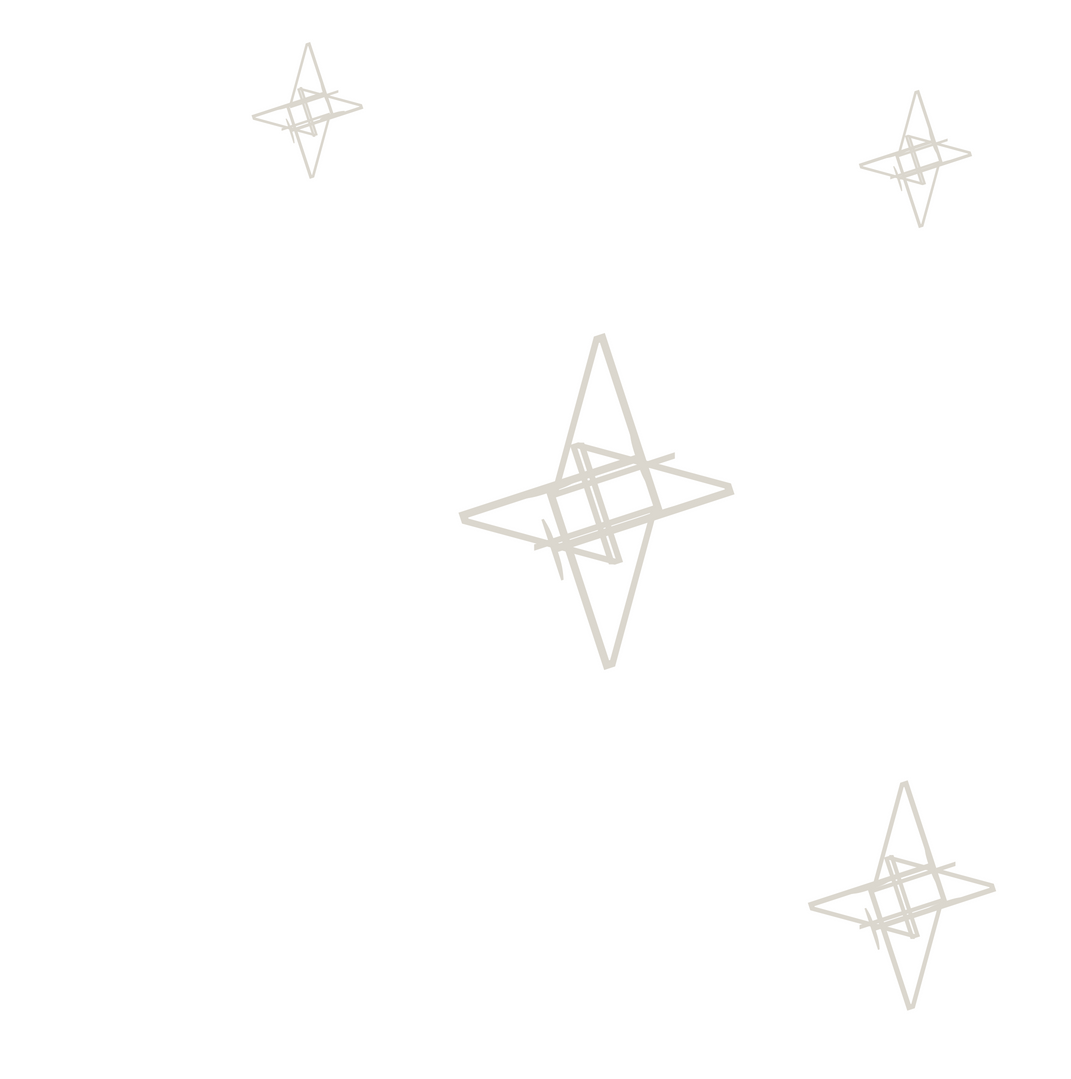
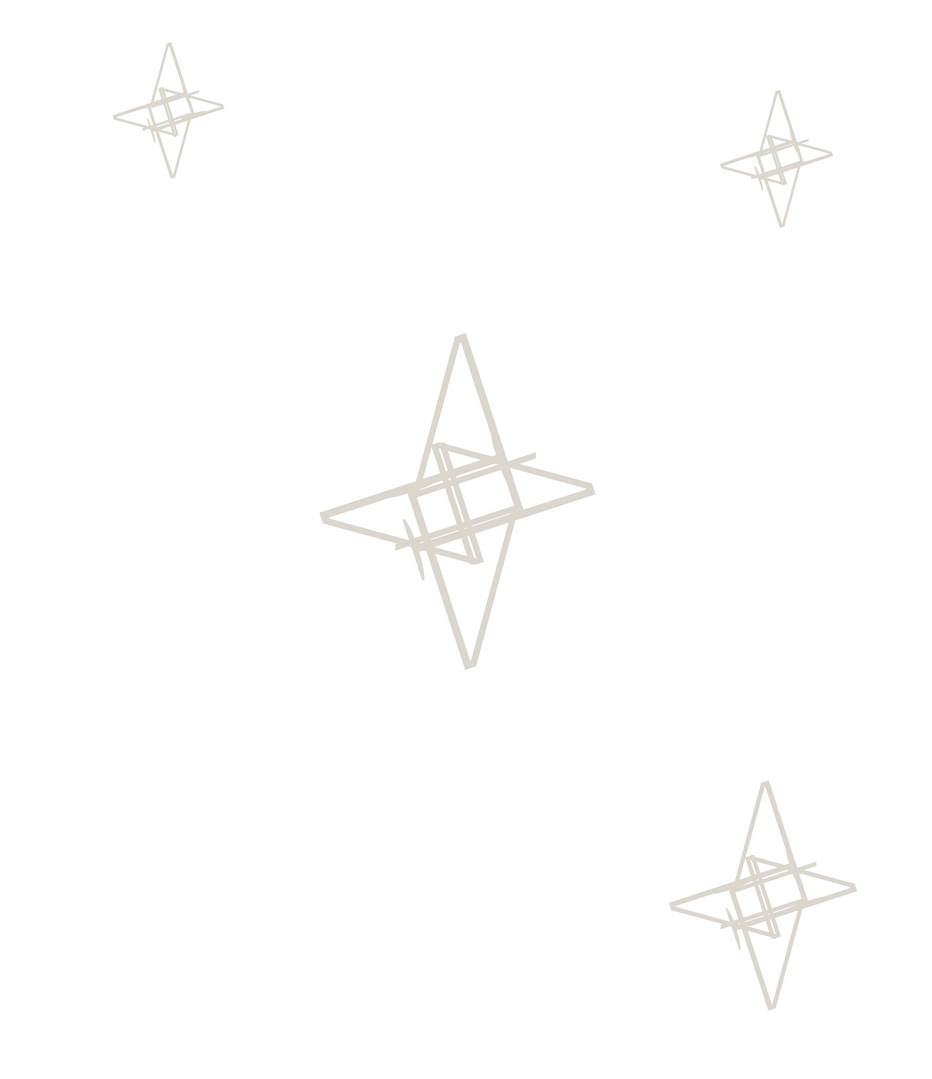
layout for home page proto

diff --git a/index.html b/index.html
@@ -19,9 +19,7 @@
     <script src="https://ajax.googleapis.com/ajax/libs/jquery/3.3.1/jquery.min.js"></script>
     <script src="https://maxcdn.bootstrapcdn.com/bootstrap/3.3.7/js/bootstrap.min.js"></script>
     <style>
-        * {
-          box-sizing: border-box;
-        }
+
         .sidenav {
             height: 100%;
             width: 200px;
@@ -32,14 +30,14 @@
             background-color: #fff;
             overflow-x: hidden;
             padding-top: 20px;
-            border-right: 2px solid #f2eded;
+            border-right: 2px solid #cdcbc1;
         }
 
             .sidenav a {
                 padding: 6px 6px 6px 32px;
                 text-decoration: none;
                 font-size: 25px;
-                color: #dbd8ce;
+                color: #cdcbc1;
                 display: block;
             }
 
@@ -49,35 +47,43 @@
 
         button {
             border-radius: 5px;
-            padding: 10px;
+            padding: 16px;
             background-color: white;
-            border: 2px solid #f2eded;
-            color: #dbd8ce;
+            border: 2px solid #cdcbc1;
+            color: #cdcbc1;
             font-family: 'Cutive Mono';
         }
 
         button:hover{
-            filter: brightness(96%);
+            color: white;
+            background-color: #cdcbc1;
         }
 
         .main {
             margin-left: 200px; /* Same as the width of the sidenav */
-            padding: 60px;
-
-
+            padding: 0px;
+            height: 100%;
         }
+
         body {
             font-family: 'Cutive Mono';
             font-size: 22px;
-            color: #dbd8ce;
+            color: #cdcbc1;
             display: block;
-            background-image: url(imgs/backgroundpoem.png);
+
             /* Full height */
             height: 100%;
-            /* Center and scale the image nicely */
-            background-position: center;
-            background-repeat: no-repeat;
-            background-size: cover;
+        }
+        .grassflowers {
+          position:absolute;
+          bottom: 0px;
+          background-image: url("imgs/backgroundpoemflowers.png");
+          height: 200px;
+          background-position:top;
+          background-repeat: repeat-x;
+          background-size: contain;
+          width: calc(100% - 200px);
+          overflow-x: hidden !important;
         }
     </style>
 </head>
@@ -88,51 +94,37 @@
 
         <!-- Sidebar -->
         <div class="sidenav">
-                    <a href="index.html">create</a>
+                    <a href="index.html">create</a><br>
 
-                    <a href="#">words</a>
+                    <a href="#">words</a><br>
 
-                    <a href="#">how it works</a>
+                    <a href="#">how it works</a><br>
 
-                    <a href="#">contact</a>
+                    <a href="#">contact</a><br>
         </div>
         <!-- /#sidebar-wrapper -->
 
         <!-- Page Content -->
-        <div class="main">
+        <div class="main" style="">
 
-        <div class="container">
-          <div class="row">
-            <div class="col-sm-4">
-              <h3>Column 1</h3>
-              <p>Lorem ipsum dolor sit amet, consectetur adipisicing elit...</p>
-              <p>Ut enim ad minim veniam, quis nostrud exercitation ullamco laboris...</p>
+        <div class="container-fluid" style = "height:100%;">
+          <div class="row" style="">
+            <div class="col-sm-4" style="padding:0px;">
+              <img src="imgs/starsleft.png" class="img-responsive"  style="padding-left: 0px;  padding-right: 0px;">
             </div>
-            <div class="col-sm-4">
-              <h3>Column 2</h3>
-              <p>Lorem ipsum dolor sit amet, consectetur adipisicing elit...</p>
-              <p>Ut enim ad minim veniam, quis nostrud exercitation ullamco laboris...</p>
+            <div class="col-sm-4" class="align-middle" style="padding-top:10vh;text-align:center;">
+              <p id="poem" style="height:200px;"></p><br><br><br>
+              <button type="button" onclick="writeHaiku()">dame una poema</button>
             </div>
-            <div class="col-sm-4">
-              <h3>Column 3</h3>
-              <p>Lorem ipsum dolor sit amet, consectetur adipisicing elit...</p>
-              <p>Ut enim ad minim veniam, quis nostrud exercitation ullamco laboris...</p>
+            <div class="col-sm-4" style="padding-left: 0px;  padding-right: 0px;">
+              <img src="imgs/starsright.png" class="img-responsive" style="">
             </div>
           </div>
         </div>
-
-
-                <p id="poem" style="height:300px;"></p>
-                <!--<p>Make sure to keep all page content within the <code>#page-content-wrapper</code>.</p>
-                <a href="#menu-toggle" class="btn btn-secondary" id="menu-toggle">Toggle Menu</a>-->
-                <button type="button" onclick="writeHaiku()">dame una poema</button>
-                
+        <div class=" grassflowers">
         </div>
-        <div class="grass" style="position:absolute; bottom:0px; font-size:45px; line-height:6px;">
-            <h1>////////////////////////////////////////////////////////////////////////////////</h1>
-            <h1>\\\\\\\\\\\\\\\\\\\\\\\\\\\\\\\\\\\\\\\\\\\\\\\\\\\\\\\\\\\\\\\\\\\\\\\\\\\\\\\\</h1>
+
         </div>
-   
         <!-- /#page-content-wrapper -->
 
 

diff --git a/testscript.js b/testscript.js
@@ -24,7 +24,7 @@ function writeHaiku() {
   // let haiku = "<br><br>" + firstLine + "<br>" + secondLine + "<br>" + thirdLine + "<br><br>"
   //piece together poem
   //document.getElementById("poem").innerHTML = haiku
-  document.getElementById("poem").innerHTML = firstLine + "<br>" + secondLine + "<br>" + thirdLine;
+  document.getElementById("poem").innerHTML = firstLine + "<br><br>" + secondLine + "<br><br>" + thirdLine;
 }
 
 
